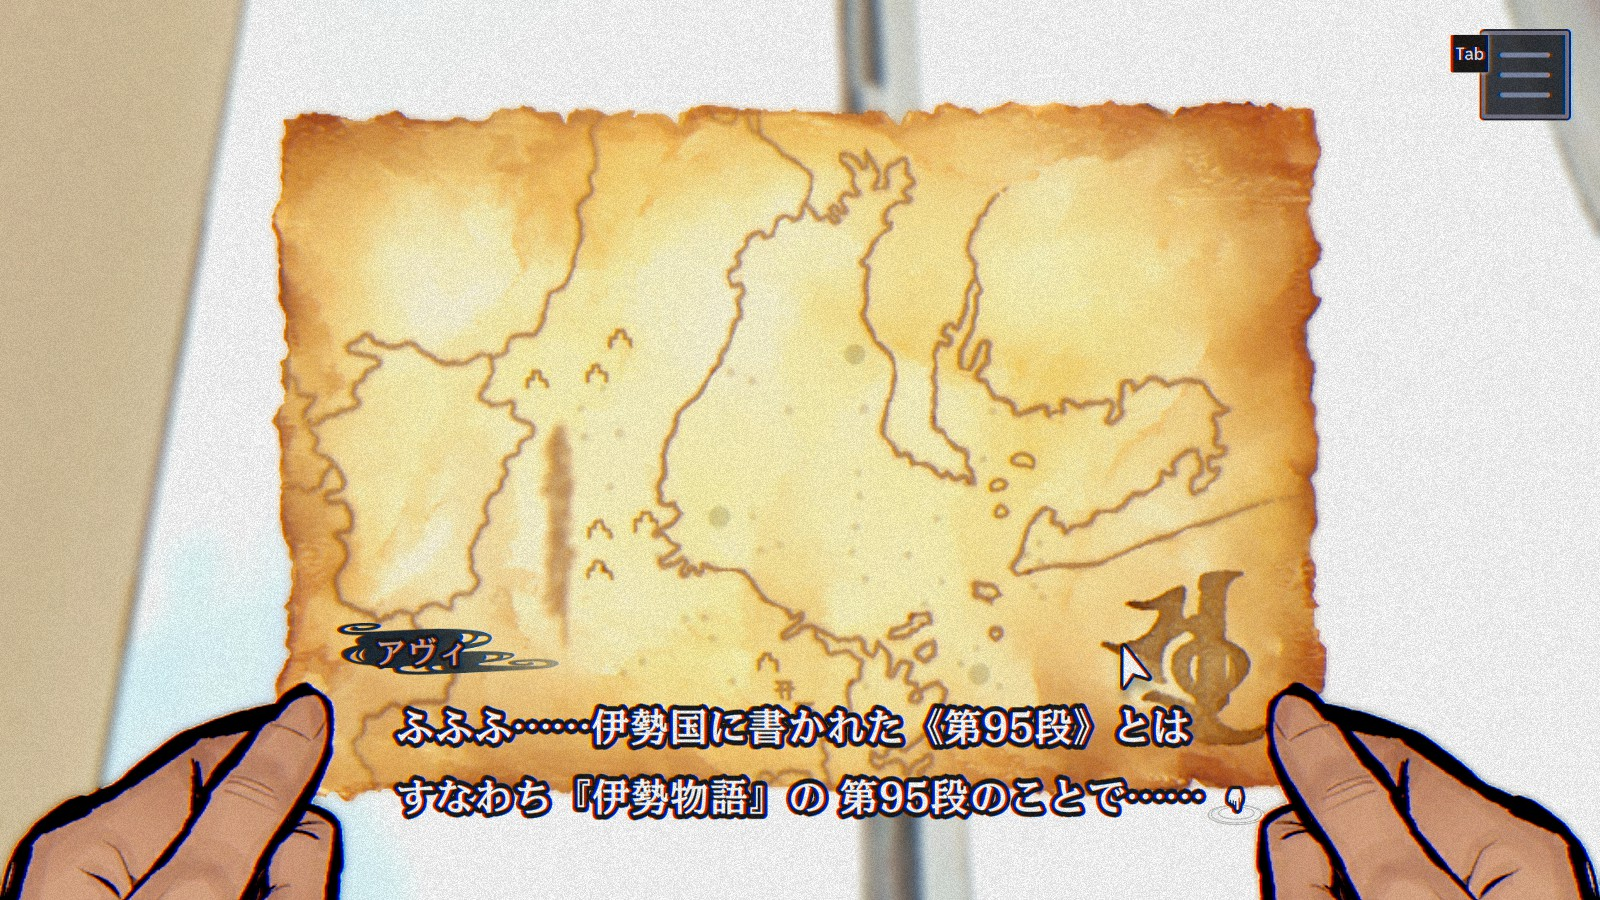
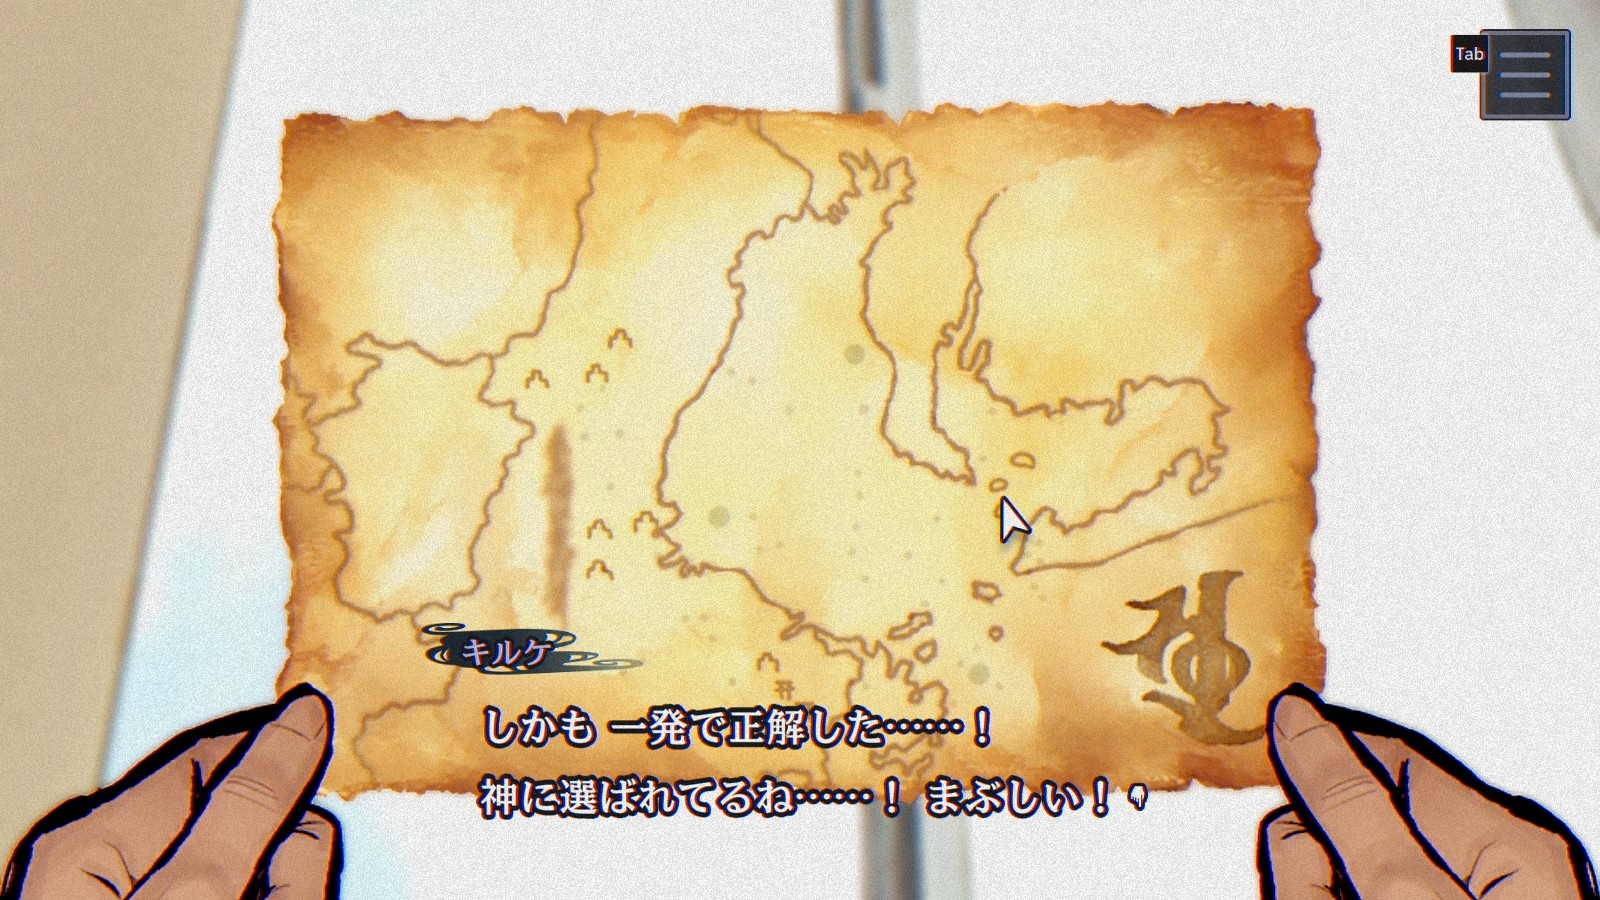
post add

diff --git a/src/posts/2026-03-18-113350-paranomaise.md b/src/posts/2026-03-18-113350-paranomaise.md
@@ -6,7 +6,7 @@ work: "paranomaise"
 ---
 
 「95段が何を差すかわかんなかったけどこの地点の海底に同じマークがあったからたぶんここやろ」で当たっちゃった顔してる  
-・・・資料はもっとちゃんと読むようにします
+前作に引き続き一発正解ご褒美できすとあるのありがたい！
 
 ![](/images/2026-03-18-113350-paranomaise.jpg)
 
